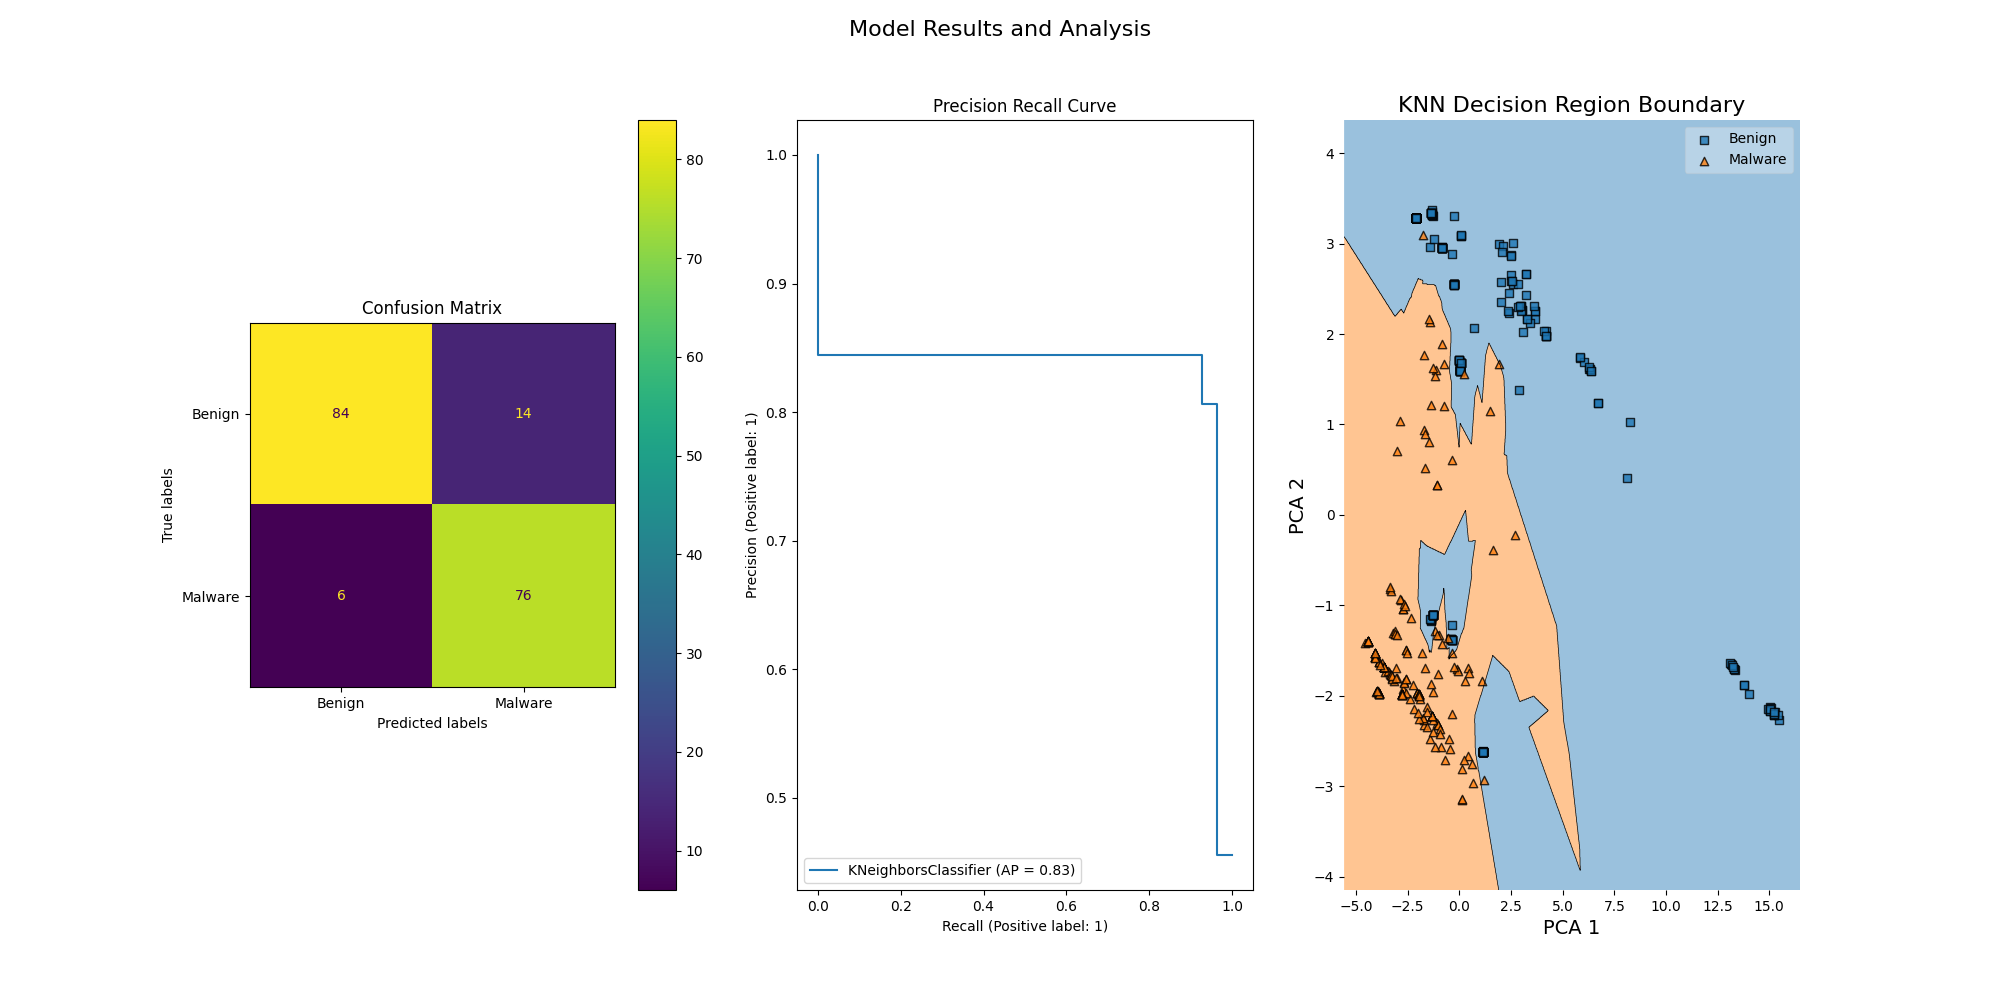
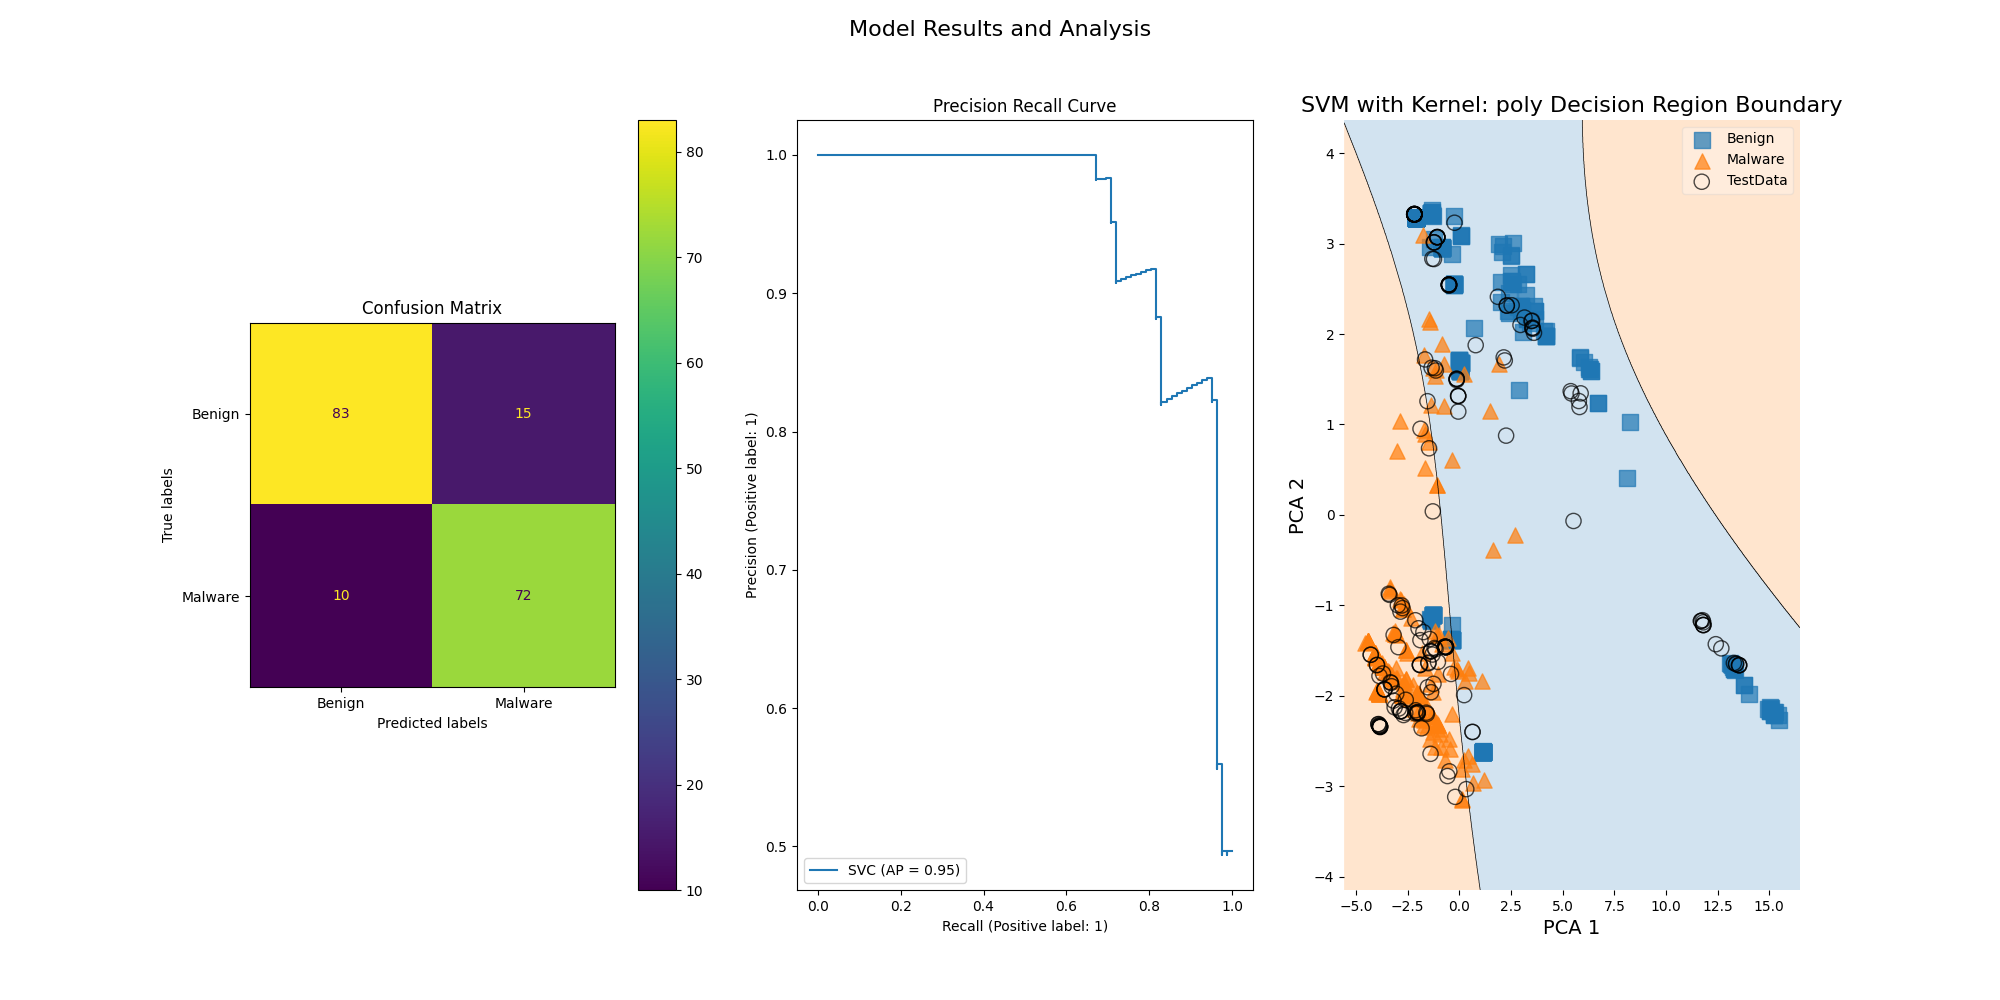
Add some further optional inputs

diff --git a/Cortus/FullApplication/model.py b/Cortus/FullApplication/model.py
@@ -68,8 +68,8 @@ class CortusModelCreator:
                      sg.Radio('Poly', 'kernel', size=(12, 1), k='Poly')],
                     [sg.Radio('RBF', 'kernel', size=(12, 1), k='RBF'),   
                      sg.Radio('sigmoid', 'kernel', size=(12, 1), k='sigmoid')],
-                    [sg.Text('Coef', size=(15, 1)), sg.In(default_text='0.0', size=(10, 1)),
-                     sg.Text('Degree Poly Kernel', size=(15, 1)), sg.Spin(values=[i for i in range(0, 1000)], initial_value=0, size=(6, 1)),]   
+                    [sg.Text('Coef', size=(15, 1)), sg.In(default_text='0.5', size=(10, 1), k='coef'),
+                     sg.Text('Degree Poly Kernel', size=(15, 1)), sg.Spin(values=[i for i in range(0, 1000)], initial_value=3, size=(6, 1), k='polyAmount'),]   
                    ]  
 
         knnInput = [
@@ -81,7 +81,7 @@ class CortusModelCreator:
                      sg.Radio('Ball_tree', 'Algorithm', size=(12, 1), k='Ball_tree')],
                     [sg.Radio('Kd_tree', 'Algorithm', size=(12, 1), k='Kd_tree'),   
                      sg.Radio('Brute', 'Algorithm', size=(12, 1), k='Brute')],
-                    [sg.Text('Number of Neighbours', size=(15, 1), k='Neighbours'), sg.Spin(values=[i for i in range(0, 1000)], initial_value=0, size=(6, 1)),]
+                    [sg.Text('Number of Neighbours', size=(15, 1), k='Neighbours'), sg.Spin(values=[i for i in range(0, 1000)], initial_value=0, size=(6, 1), k='degree'),]
                    ]  
 
         optimalInput = [
@@ -96,7 +96,7 @@ class CortusModelCreator:
                   [sg.Text('Model Type', size=(15, 1))],      
                   [sg.Radio('SVM', 'model', size=(12, 1), default=True, k='-SVM-', enable_events=True),   
                    sg.Radio('KNN', 'model', size=(12, 1), k='-KNN-', enable_events=True)],
-                  [sg.Radio('Optimised', 'model', size=(12, 1), k='-OPT-', enable_events=True)],   
+                  [sg.Radio('Optimised', 'model', size=(20, 1), k='-OPT-', enable_events=True)],   
                   [sg.HorizontalSeparator()],
                   [sg.T(self.SYMBOL_DOWN, enable_events=True, k='-OPEN SEC1-'), sg.T('SVM Parameters', enable_events=True, text_color='white', k='-OPEN SEC1-TEXT')],
                   [self.collapse(svmInput, '-SEC1-')],
@@ -133,16 +133,46 @@ class CortusModelCreator:
                 window['-OPEN SEC3-'].update(self.SYMBOL_DOWN if opened3 else self.SYMBOL_UP)
                 window['-SEC3-'].update(visible=opened3)
             if event.startswith('CreateModel'):
-
                 modelParams = {}
                 if values['-SVM-'] :
                     modelParams['modelType'] = "svm"
+                    modelParams['coef'] = values['coef']
+                    if values['linear'] == 1:
+                        modelParams['kernelType'] = 'linear'
+                    elif values['Poly'] == 1:
+                        modelParams['kernelType'] = 'poly'
+                        modelParams['polyAmount'] =  values['polyAmount']
+                    elif values['RBF'] == 1:
+                        modelParams['kernelType'] = 'rbf'
+                    elif values['sigmoid'] == 1:
+                        modelParams['kernelType'] = 'poly'
+                    self.createModel(modelParams)
+
                 elif values['-KNN-'] :
                     modelParams['modelType'] = "knn"
+                    modelParams['degree'] = values['degree']
+                    if values['Uniform'] == 1:
+                        modelParams['weights'] = 'uniform'
+                    elif values['Distance'] == 1:
+                        modelParams['weights'] = 'distance'
+
+                    if values['Auto'] == 1:
+                        modelParams['algo'] = 'auto'
+                    elif values['Ball_tree'] == 1:
+                        modelParams['algo'] = 'poly'
+                    elif values['Kd_tree'] == 1:
+                        modelParams['algo'] = 'kd_tree'
+                    elif values['Brute'] == 1:
+                        modelParams['algo'] = 'brute'
+                    self.createModel(modelParams)
+
                 elif values['-OPT-'] :
                     modelParams['modelType'] = "opt"
-
-                self.createModel(modelParams)
+                    if values['-KNNO-'] :
+                        modelParams['optType'] = 'knn'
+                    elif values['-SVMO-'] :
+                        modelParams['optType'] = 'svm'
+                    self.createModel(modelParams)
 
 
     def createModel(self, parametersDict):
@@ -161,48 +191,49 @@ class CortusModelCreator:
         X_std_test = pca.fit_transform(X_std_test)
 
         if (parametersDict['modelType']) == 'svm' :
-            self.svmModel(X_std_train, X_std_test, y_train, y_test )
+            self.svmModel(X_std_train, X_std_test, y_train, y_test, parametersDict )
         if (parametersDict['modelType']) == 'knn' :
-            self.knnModel(X_std_train, X_std_test, y_train, y_test )
+            self.knnModel(X_std_train, X_std_test, y_train, y_test, parametersDict )
         if (parametersDict['modelType']) == 'opt' :
-            self.optimisedModel(X_std_train, X_std_test, y_train, y_test )
+            self.optimisedModel(X_std_train, X_std_test, y_train, y_test, parametersDict )
 
 
-    def svmModel(self, X_train, X_test, Y_train, Y_test) :
+    def svmModel(self, X_train, X_test, Y_train, Y_test, parametersDict) :
         resultsDict = {}
 
-        svc = svm.SVC(kernel='linear')
+        if 'polyAmount' in parametersDict :
+            svc = svm.SVC(kernel=parametersDict['kernelType'], coef0=float(parametersDict['coef']), degree=float(parametersDict['polyAmount']))
+        else :
+            svc = svm.SVC(kernel=parametersDict['kernelType'], coef0=float(parametersDict['coef']))
         model = svc.fit(X_train, Y_train)
         predicted_labels = model.predict(X_test)
         logging.info("SVM Accuracy: {}".format(accuracy_score(Y_test, predicted_labels)))
 
         resultsDict['Accuracy']          = accuracy_score(Y_test, predicted_labels)
         resultsDict['Average Precision'] = average_precision_score(Y_test, predicted_labels)
-
-        self.plotResults(model, X_train, X_test, Y_train, Y_test, predicted_labels, "SVM")
+        self.plotResults(model, X_train, X_test, Y_train, Y_test, predicted_labels, f"SVM with Kernel: {parametersDict['kernelType']}")
         self.saveModel('resources\\Cortus_SVMModel.pkl', model)
 
         self.resultsLayout(resultsDict)
 
 
-    def knnModel(self, X_train, X_test, Y_train, Y_test) :
+    def knnModel(self, X_train, X_test, Y_train, Y_test, parametersDict) :
         resultsDict = {}
 
-        knn = KNeighborsClassifier(n_neighbors=2)
+        knn = KNeighborsClassifier(weights=parametersDict['weights'], algorithm=parametersDict['algo'], n_neighbors=int(parametersDict['degree']))
         model = knn.fit(X_train, Y_train)
         predicted_labels = model.predict(X_test)
         logging.info("KNN Accuracy: {}".format(accuracy_score(Y_test, predicted_labels)))
 
         resultsDict['Accuracy']          = accuracy_score(Y_test, predicted_labels)
         resultsDict['Average Precision'] = average_precision_score(Y_test, predicted_labels)
-
         self.plotResults(model, X_train, X_test, Y_train, Y_test, predicted_labels, "KNN")
         self.saveModel('resources\\Cortus_KNNModel.pkl', model)
 
         self.resultsLayout(resultsDict)
 
 
-    def optimisedModel(self, X_train, X_test, Y_train, Y_test) :
+    def optimisedModel(self, X_train, X_test, Y_train, Y_test, parametersDict) :
         resultsDict = {}
 
         svc = svm.SVC(kernel='rbf')
@@ -212,7 +243,6 @@ class CortusModelCreator:
 
         resultsDict['Accuracy']          = accuracy_score(Y_test, predicted_labels)
         resultsDict['Average Precision'] = average_precision_score(Y_test, predicted_labels)
-
         self.plotResults(model, X_train, X_test, Y_train, Y_test, predicted_labels, "Optimal")
         self.saveModel('resources\\Cortus_OPTModel.pkl', model)
 
@@ -237,13 +267,21 @@ class CortusModelCreator:
         ax2.set_title("Precision Recall Curve")
 
         # -------------Decision Region----------------------#
+        scatter_kwargs = {'s': 120, 'edgecolor': None, 'alpha': 0.7}
+        contourf_kwargs = {'alpha': 0.2}
+        scatter_highlight_kwargs = {'s': 120, 'label': 'Test data', 'alpha': 0.7}
+        # Plotting decision regions
         value=0.5
         width=0.25
         # Plot Decision Region using mlxtend's awesome plotting function
-        ax3 = plot_decision_regions(X=X_train, y=Y_train, 
-                                    filler_feature_values={2: value, 3:value, 4:value, 5:value},
-                                    filler_feature_ranges={2: width, 3: width, 4:width, 5:width},
-                                    clf=model, legend=2, ax=ax3)
+        ax3 = plot_decision_regions(X=X_train, y=Y_train,
+                                    X_highlight=X_test,
+                                    # filler_feature_values={2: value, 3: value}, 
+                                    # filler_feature_ranges={2: width, 3: value}, 
+                                    clf=model, legend=2, ax=ax3,
+                                    scatter_kwargs=scatter_kwargs,
+                                    contourf_kwargs=contourf_kwargs,
+                                    scatter_highlight_kwargs=scatter_highlight_kwargs)
 
         # Update plot object with X/Y axis labels and Figure Title
         plt.xlabel("PCA 1", size=14)
@@ -251,7 +289,7 @@ class CortusModelCreator:
         plt.title(f'{modelType} Decision Region Boundary', size=16)
         handles, labels = ax3.get_legend_handles_labels()
         ax3.legend(handles, 
-                ['Benign', 'Malware'], 
+                ['Benign', 'Malware', 'TestData'], 
                 framealpha=0.3, scatterpoints=1)
 
         plt.show(block=False)
@@ -272,12 +310,13 @@ class CortusModelCreator:
                         [sg.Button('Exit')]
                        ]    
 
-        window = sg.Window('Cortus Machine Learning Model', layout, font=("Helvetica", 12), ) 
+        window = sg.Window('Cortus Machine Learning Model', layout, font=("Helvetica", 12), size=(500, 500) ) 
         while True:
             event, values = window.read()
             if event == "Exit" or event == sg.WIN_CLOSED:
                 window.close()
                 break
+
 
     def saveModel(self, modelName, model) :
         filename = os.path.join(workingDirectory, modelName)
